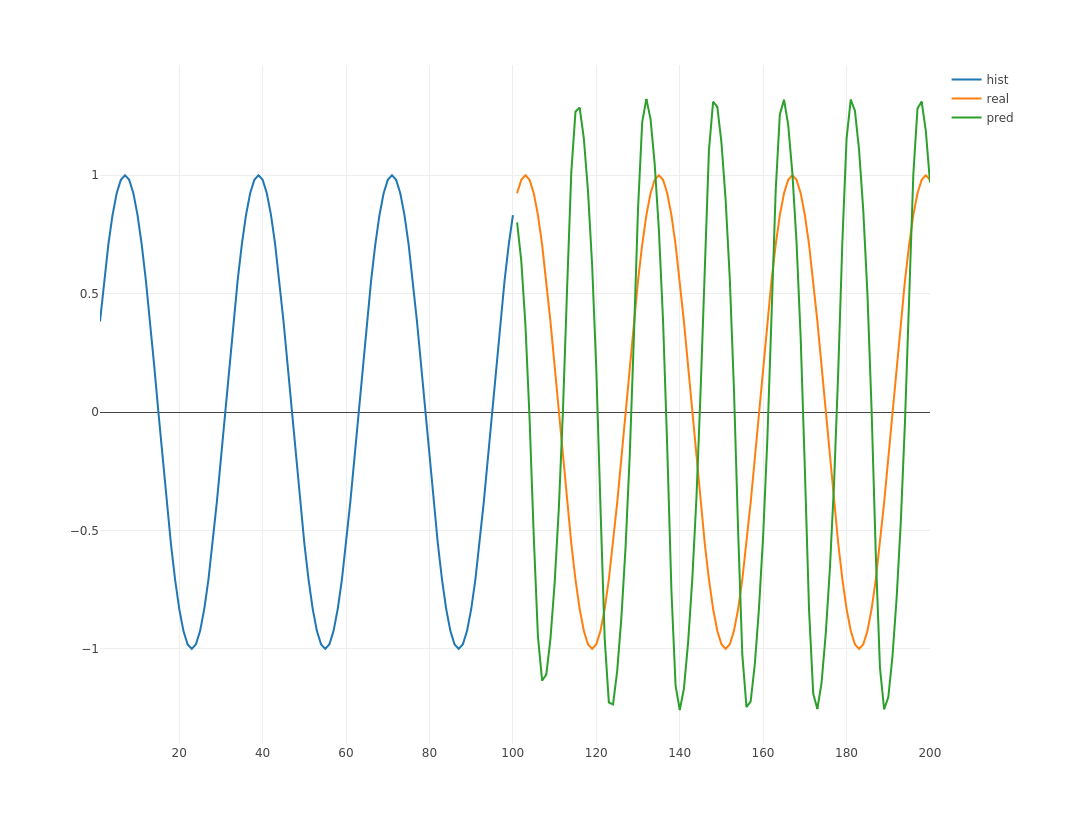
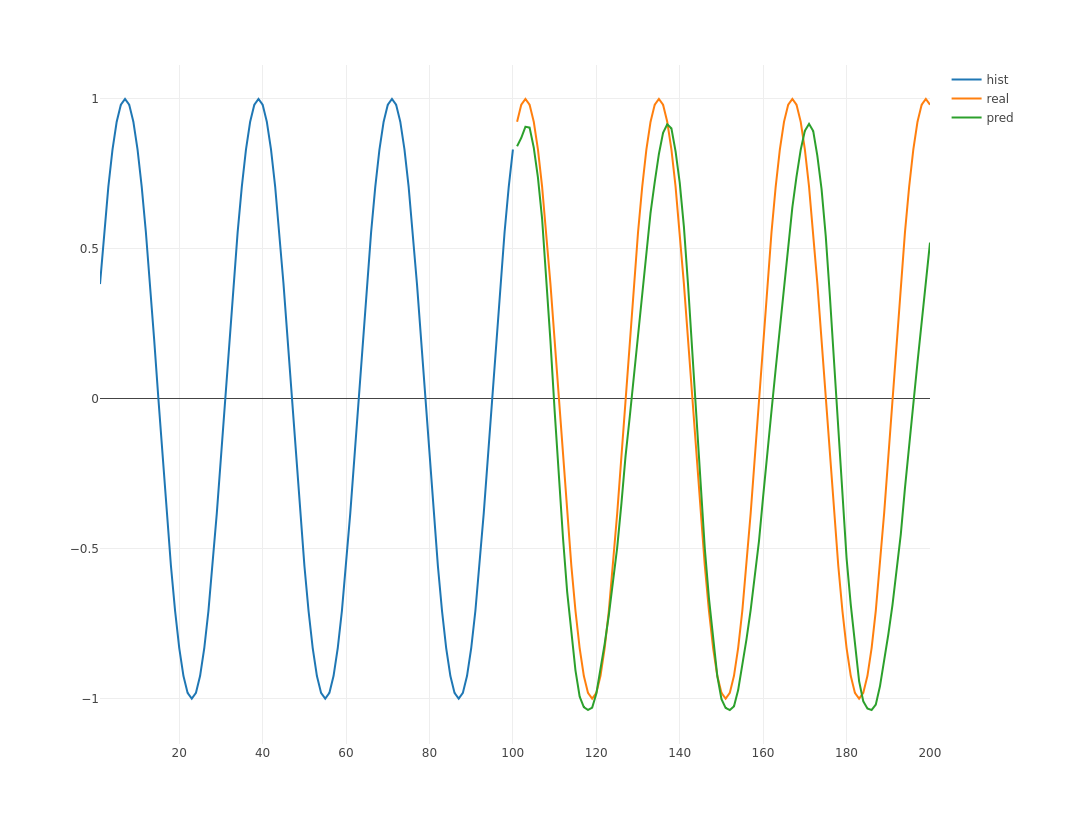
Time series demo

diff --git a/TimeSeries.md b/TimeSeries.md
@@ -28,21 +28,25 @@ source("rnn.infer.R")
 ### Data preparation
 
 ``` r
-pts <- sin(pi/16* (1:2001))
+seq_len = 100
+samples = 32
+
+pts <- sin(pi/16 * (1:(seq_len * samples + 1)))
+
 x <- pts[-length(pts)]
-x = matrix(x, nrow = 20, byrow = T)
-x = array(x, dim = c(1, 20, 100))
+x = matrix(x, nrow = seq_len, byrow = F)
+x = array(x, dim = c(1, seq_len, samples))
 y <- pts[-1]
-y = matrix(y, nrow = 20, byrow = T)
+y = matrix(y, nrow = seq_len, byrow = F)
 
-p1 = plot_ly(x = 1:dim(x)[3], y = x[1,1, ], type = "scatter", mode = "lines") %>% 
-  add_trace(x = 1:dim(x)[3], y = x[1,2,], type = "scatter", mode = "lines") %>% 
-  add_trace(x = 1:dim(x)[3], y = x[1,3,], type = "scatter", mode = "lines") %>% 
-  add_trace(x = 1:dim(x)[3], y = x[1,4,], type = "scatter", mode = "lines") %>% 
-  add_trace(x = 1:dim(x)[3], y = x[1,5,], type = "scatter", mode = "lines")
+p1 = plot_ly(x = 1:dim(x)[2], y = x[1,,1], type = "scatter", mode = "lines") %>% 
+  add_trace(x = 1:dim(x)[2], y = x[1,,2], type = "scatter", mode = "lines") %>% 
+  add_trace(x = 1:dim(x)[2], y = x[1,,3], type = "scatter", mode = "lines") %>% 
+  add_trace(x = 1:dim(x)[2], y = x[1,,4], type = "scatter", mode = "lines") %>% 
+  add_trace(x = 1:dim(x)[2], y = x[1,,5], type = "scatter", mode = "lines")
 
-p2 = plot_ly(x = 1:length(y[1,]), y = y[1,], type = "scatter", mode = "lines") %>%
-  add_trace(x = 1:length(y[2,]), y = y[2,], type = "scatter", mode = "lines")
+p2 = plot_ly(x = 1:length(y[,1]), y = y[,1], type = "scatter", mode = "lines") %>%
+  add_trace(x = 1:length(y[,2]), y = y[,2], type = "scatter", mode = "lines")
 
 plotly::export(p1, file = "timeseries_p1.png")
 ```
@@ -54,7 +58,7 @@ plotly::export(p1, file = "timeseries_p1.png")
 Hacky array.iter approach: batch.size = seq.length so that the graph is fed with the expected format.
 
 ``` r
-batch.size = 100
+batch.size = 8
 
 train.data <- mx.io.arrayiter(data = x, label = y, 
                               batch.size = batch.size, shuffle = TRUE)
@@ -64,17 +68,17 @@ train.data <- mx.io.arrayiter(data = x, label = y,
 
 ``` r
 symbol <- rnn.graph(num_rnn_layer =  2, 
-                       num_hidden = 64,
-                       input_size = NULL,
-                       num_embed = NULL, 
-                       num_decode = 1,
-                       masking = F, 
-                       loss_output = "linear",
-                       dropout = 0.1, 
-                       ignore_label = -1,
-                       cell_type = "lstm",
-                       output_last_state = T,
-                       config = "one-to-one")
+                    num_hidden = 64,
+                    input_size = NULL,
+                    num_embed = NULL, 
+                    num_decode = 1,
+                    masking = F, 
+                    loss_output = "linear",
+                    dropout = 0.25, 
+                    ignore_label = -1,
+                    cell_type = "lstm",
+                    output_last_state = T,
+                    config = "one-to-one")
 
 graph = graph.viz(symbol, type = "graph", direction = "LR", shape=list(data = c(1, 4, 100), label = c(4, 100)))
 ```
@@ -87,7 +91,16 @@ DiagrammeRsvg::export_svg(graph) %>% charToRaw %>% rsvg::rsvg_png("time_graph.pn
 
 ### Fit a LSTM model
 
-Another friction: metrics need to be customized under the current data format.
+Needs a custom metric to handle labels in a matrix rather than flat format in the iterator.
+
+``` r
+mx.metric.mse.seq <- mx.metric.custom("Perplexity", function(label, pred) {
+  label = mx.nd.reshape(mx.nd.array(label), shape = -1)
+  label = as.array(label)
+  res <- mean((label-pred)^2)
+  return(res)
+})
+```
 
 ``` r
 ctx <- mx.gpu()
@@ -96,31 +109,31 @@ initializer <- mx.init.Xavier(rnd_type = "gaussian",
                               factor_type = "avg", 
                               magnitude = 2.5)
 
-optimizer <- mx.opt.create("adadelta", rho = 0.9, eps = 1e-5, wd = 0,
-                           clip_gradient = NULL, rescale.grad = 1/batch.size)
+optimizer <- mx.opt.create("adadelta", rho = 0.9, eps = 1e-5, wd = 1e-12,
+                           clip_gradient = 2, rescale.grad = 1/batch.size)
 
 logger <- mx.metric.logger()
-epoch.end.callback <- mx.callback.log.train.metric(period = 1, logger = logger)
+batch.end.callback <- mx.callback.log.train.metric(period = 1, logger = logger)
 epoch.end.callback <- mx.callback.log.train.metric(period = 1, logger = logger)
 
 system.time(
   model <- mx.model.buckets(symbol = symbol,
                             train.data = train.data, eval.data = NULL, 
-                            num.round = 2500, ctx = ctx, verbose = TRUE,
+                            num.round = 1250, ctx = ctx, verbose = TRUE,
                             metric = NULL, 
                             initializer = initializer, optimizer = optimizer, 
                             batch.end.callback = NULL, 
-                            epoch.end.callback = epoch.end.callback)
+                            epoch.end.callback = NULL)
 )
 ```
 
     ## Start training with 1 devices
 
     ##    user  system elapsed 
-    ##  14.532   1.172   7.697
+    ## 112.668  10.036 105.415
 
 ``` r
-mx.model.save(model, prefix = "models/model_time_series", iteration = 1000)
+mx.model.save(model, prefix = "models/model_time_series", iteration = 1)
 ```
 
 Inference on test data
@@ -131,7 +144,7 @@ Setup inference data. Need to apply preprocessing to inference sequence and conv
 ### Inference
 
 ``` r
-model <- mx.model.load(prefix = "models/model_time_series", iteration = 1000)
+model <- mx.model.load(prefix = "models/model_time_series", iteration = 1)
 
 internals <- model$symbol$get.internals()
 sym_state <- internals$get.output(which(internals$outputs %in% "RNN_state"))
@@ -141,12 +154,11 @@ symbol <- mx.symbol.Group(sym_output, sym_state, sym_state_cell)
 
 predict <- numeric()
 
-data = mx.nd.array(x[, 1, , drop = F])
-label = mx.nd.array(y[1, , drop = F])
+data = mx.nd.array(x[, , 1, drop = F])
+label = mx.nd.array(y[, 1, drop = F])
 
-infer_length = dim(data)[3]
-
-infer.data <- mx.io.arrayiter(data = data, label = label, batch.size = batch.size, shuffle = FALSE)
+infer.data <- mx.io.arrayiter(data = data, label = label, 
+                              batch.size = 1, shuffle = FALSE)
 
 mx.symbol.bind = mxnet:::mx.symbol.bind
 infer <- mx.infer.buckets.one(infer.data = infer.data, 
@@ -156,7 +168,7 @@ infer <- mx.infer.buckets.one(infer.data = infer.data,
                               input.params = NULL,
                               ctx = ctx)
 
-pred = mx.nd.array(y[1, batch.size, drop = F])
+pred = mx.nd.array(y[seq_len, 1, drop = F])
 
 for (i in 1:100) {
   
@@ -183,16 +195,16 @@ for (i in 1:100) {
 ### Plot predictions against real values
 
 ``` r
-data = mx.nd.array(x[, 1, , drop = F])
-label = mx.nd.array(y[1, , drop = F])
+data = mx.nd.array(x[, , 1, drop = F])
+label = mx.nd.array(y[, 1, drop = F])
 
-real = y[2, 1:100]
+real = y[1:100, 2]
 
-p = plot_ly(x = 1:dim(y)[2], y = y[1,], type = "scatter", mode="lines", name = "hist") %>% 
-  add_trace(x = dim(y)[2] + 1:length(real), y = real, type = "scatter", mode="lines", name = "real") %>% 
-  add_trace(x = dim(y)[2] + 1:length(predict), y = predict, type = "scatter", mode="lines", name = "pred")
+p = plot_ly(x = 1:dim(y)[1], y = y[,1], type = "scatter", mode="lines", name = "hist") %>% 
+  add_trace(x = dim(y)[1] + 1:length(real), y = real, type = "scatter", mode="lines", name = "real") %>% 
+  add_trace(x = dim(y)[1] + 1:length(predict), y = predict, type = "scatter", mode="lines", name = "pred")
 
 plotly::export(p, file = "timeseries_pred.png")
 ```
 
-![](TimeSeries_files/figure-markdown_github/unnamed-chunk-9-1.png)
+![](TimeSeries_files/figure-markdown_github/unnamed-chunk-10-1.png)
